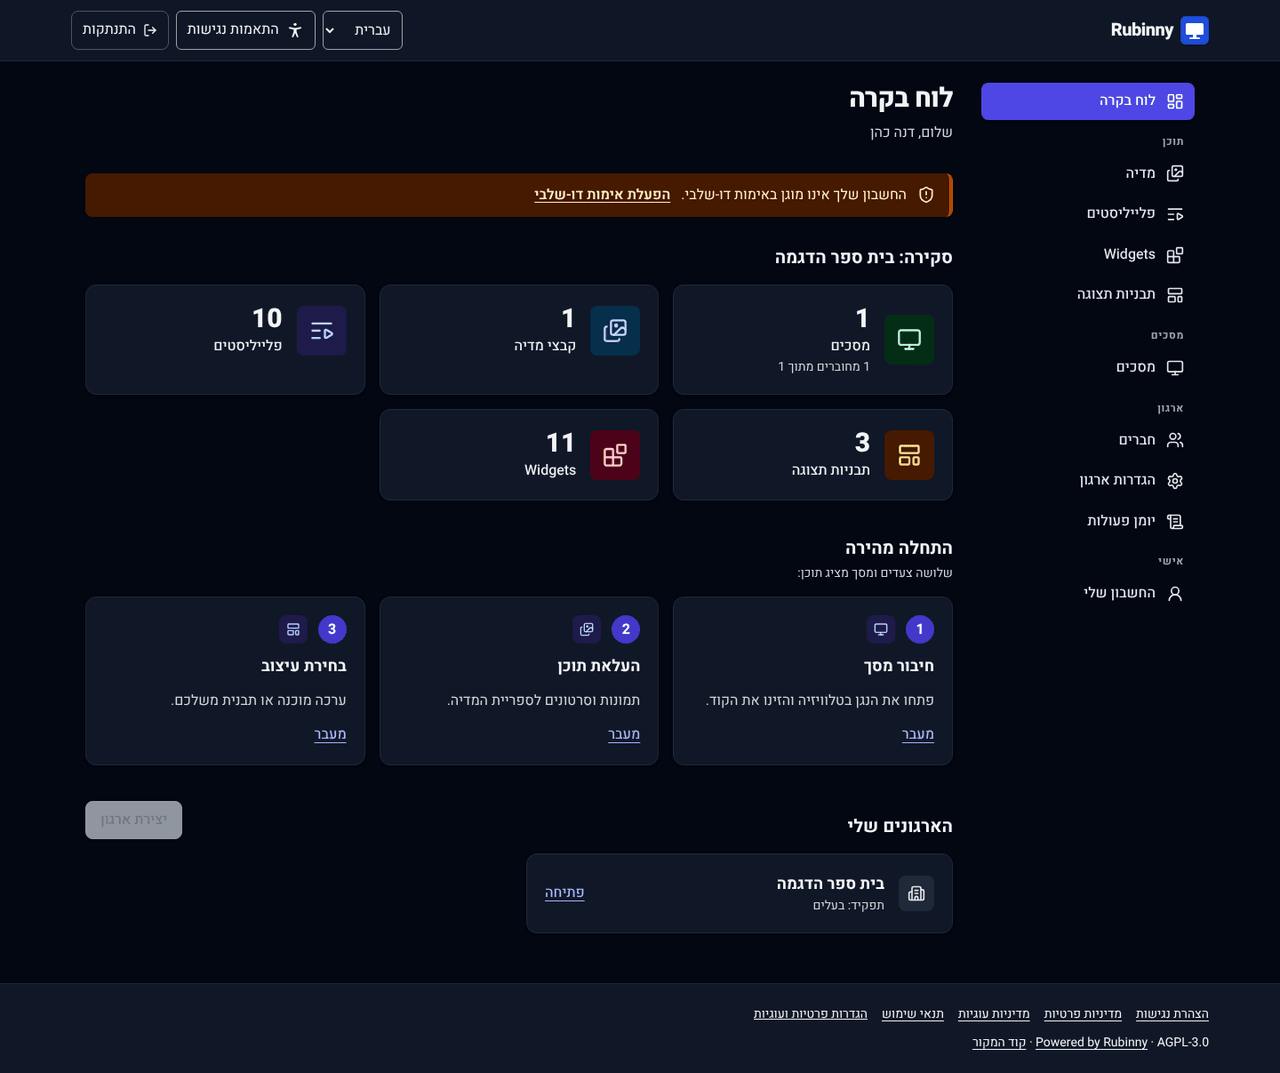
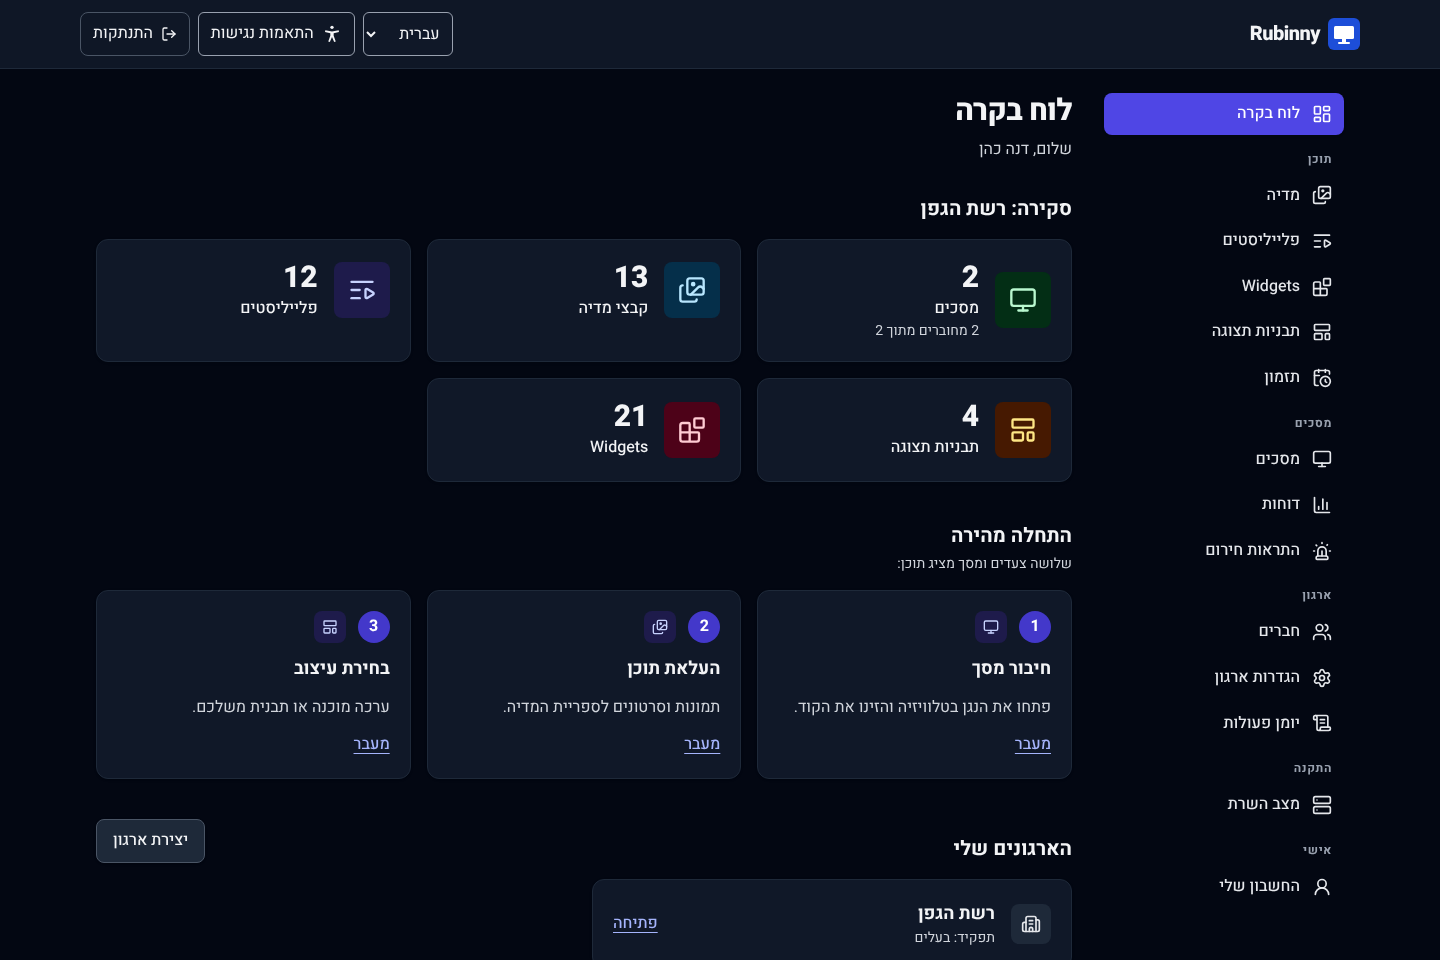
New dashboard pictures, in Hebrew and English, from a demo installation
"pnpm --filter @rubinny/cms screens" (apps/cms/screenshots, its own
Playwright config) sets up a demo organization on an empty stack through
the API: an administrator with two-step verification, four kits
(restaurant, cinema, café, shop), two paired screens playing them for a
while, and a weekly schedule. It then captures the dashboard (light and
dark), kits, widgets, designer, menu editor, screen status, report,
schedule, About page and the mobile menu. SCREENS_LOCALE=he writes
docs/screenshots/cms-<page>.png, SCREENS_LOCALE=en cms-<page>-en.png.

The English README now shows the English pictures, the Hebrew one the
Hebrew pictures, both with the new menu editor, kits and About page.
CONTRIBUTING explains how to take them again.

Claude-Session: https://claude.ai/code/session_018pfScDfFmoUQkABWysE6Dr

diff --git a/apps/cms/screenshots/dashboard.spec.ts b/apps/cms/screenshots/dashboard.spec.ts
@@ -1,0 +1,195 @@
+// Rubinny — free and open-source digital signage. Powered by Rubinny · Open source.
+// Copyright (C) 2026 The Rubinny Authors. Created by Diamond Rubinny.
+// SPDX-License-Identifier: AGPL-3.0-only
+// https://github.com/diamondrubinny/freescreensign · The attribution must be kept (LICENSING.md).
+
+import { expect, test, type APIRequestContext, type Browser, type Page } from '@playwright/test';
+import { totp } from '../e2e/helpers';
+
+/**
+ * Pictures of the dashboard for the READMEs, against a running stack with an EMPTY database
+ * (deploy/e2e-reset.sh): it sets up a demo organization with starter kits, two screens playing
+ * them and a weekly schedule, then captures each page. Hebrew pictures are written as
+ * docs/screenshots/cms-<page>.png, English ones as cms-<page>-en.png.
+ *
+ *   SCREENS_LOCALE=he|en  E2E_SETUP_TOKEN=…  pnpm --filter @rubinny/cms screens
+ */
+const LOCALE = process.env.SCREENS_LOCALE === 'en' ? 'en' : 'he';
+const SETUP_TOKEN = process.env.E2E_SETUP_TOKEN ?? '';
+const OUT = new URL('../../../docs/screenshots/', import.meta.url).pathname;
+const file = (name: string) => `${OUT}cms-${name}${LOCALE === 'en' ? '-en' : ''}.png`;
+
+const DEMO = {
+  he: {
+    name: 'דנה כהן',
+    org: 'רשת הגפן',
+    screens: ['מסעדה — כניסה', 'קולנוע — לובי'],
+    schedule: 'שבוע רגיל',
+    entries: ['בוקר בבית הקפה', 'צהריים וערב במסעדה', 'סוף שבוע בקולנוע'],
+    menu: 'תפריט המסעדה',
+    design: 'מנת היום',
+  },
+  en: {
+    name: 'Dana Cohen',
+    org: 'Vine Group',
+    screens: ['Restaurant — entrance', 'Cinema — lobby'],
+    schedule: 'Regular week',
+    entries: ['Café mornings', 'Restaurant lunch and dinner', 'Cinema weekends'],
+    menu: 'Restaurant menu',
+    design: 'Dish of the day',
+  },
+}[LOCALE];
+const ADMIN = { email: 'dana@example.com', password: 'purple elephants dance at midnight' };
+
+test.describe.configure({ mode: 'serial' });
+test.use({ viewport: { width: 1440, height: 960 }, locale: LOCALE === 'en' ? 'en-US' : 'he-IL' });
+
+let orgId = '';
+const ids: Record<string, string> = {};
+
+async function json<T>(response: Awaited<ReturnType<APIRequestContext['get']>>): Promise<T> {
+  expect(response.ok(), `${response.url()}: ${await response.text()}`).toBe(true);
+  return (await response.json()) as T;
+}
+
+/** The locale before the app loads (the language switcher stores it the same way). */
+async function prepare(page: Page) {
+  await page.addInitScript((locale) => {
+    window.localStorage.setItem('rubinny.locale', locale);
+  }, LOCALE);
+}
+
+/** Pairs a new "screen" (a browser context running the player) and returns its id. */
+async function pairScreen(browser: Browser, page: Page, name: string, layoutId: string) {
+  const device = await browser.newContext({ ignoreHTTPSErrors: true });
+  const player = await device.newPage();
+  await player.goto('/player/');
+  const code = (await player.getByTestId('pairing-code').textContent({ timeout: 20_000 }))?.trim();
+  const created = await json<{ screen: { id: string } }>(
+    await page.request.post(`/api/v1/orgs/${orgId}/screens`, {
+      data: { code, name, layoutId },
+    }),
+  );
+  return created.screen.id;
+}
+
+test('a demo organization, and pictures of its dashboard', async ({ page, browser }) => {
+  test.setTimeout(420_000);
+  expect(SETUP_TOKEN, 'E2E_SETUP_TOKEN must be set').not.toBe('');
+  await prepare(page);
+  await page.goto('/login');
+
+  await json(
+    await page.request.post('/api/v1/setup', {
+      data: {
+        setupToken: SETUP_TOKEN,
+        email: ADMIN.email,
+        password: ADMIN.password,
+        name: DEMO.name,
+        orgName: DEMO.org,
+        locale: LOCALE,
+      },
+    }),
+  );
+  // Two-step verification, which admin pages need.
+  const { secret } = await json<{ secret: string }>(
+    await page.request.post('/api/v1/auth/mfa/totp/setup', {
+      data: { password: ADMIN.password },
+    }),
+  );
+  await json(
+    await page.request.post('/api/v1/auth/mfa/totp/enable', { data: { code: totp(secret) } }),
+  );
+  const session = await json<{ memberships: { orgId: string }[] }>(
+    await page.request.get('/api/v1/auth/session'),
+  );
+  orgId = session.memberships[0]!.orgId;
+
+  for (const kit of ['restaurant', 'cinema', 'cafe', 'retail']) {
+    const { layout } = await json<{ layout: { id: string } }>(
+      await page.request.post(`/api/v1/orgs/${orgId}/starter-kits/${kit}`, {
+        data: { locale: LOCALE },
+      }),
+    );
+    ids[kit] = layout.id;
+  }
+
+  ids.screen = await pairScreen(browser, page, DEMO.screens[0]!, ids.restaurant!);
+  await pairScreen(browser, page, DEMO.screens[1]!, ids.cinema!);
+
+  const { schedule } = await json<{ schedule: { id: string } }>(
+    await page.request.post(`/api/v1/orgs/${orgId}/schedules`, {
+      data: {
+        name: DEMO.schedule,
+        entries: [
+          {
+            name: DEMO.entries[0],
+            layoutId: ids.cafe,
+            daysOfWeek: [0, 1, 2, 3, 4],
+            timeFrom: '07:00',
+            timeTo: '11:00',
+          },
+          {
+            name: DEMO.entries[1],
+            layoutId: ids.restaurant,
+            timeFrom: '11:00',
+            timeTo: '23:00',
+          },
+          { name: DEMO.entries[2], layoutId: ids.cinema, daysOfWeek: [5, 6] },
+        ],
+      },
+    }),
+  );
+  ids.schedule = schedule.id;
+
+  const { widgets } = await json<{ widgets: { id: string; name: string }[] }>(
+    await page.request.get(`/api/v1/orgs/${orgId}/widgets`),
+  );
+  // The restaurant's menu and dish of the day.
+  ids.menu = widgets.find((w) => w.name === DEMO.menu)!.id;
+  ids.design = widgets.find((w) => w.name === DEMO.design)!.id;
+
+  // Let the screens play for a while: uptime, "now playing" and plays for the report.
+  await page.waitForTimeout(80_000);
+  await capture(page);
+});
+
+const PAGES: [name: string, path: () => string][] = [
+  ['dashboard', () => '/'],
+  ['layouts', () => `/orgs/${orgId}/layouts`],
+  ['widgets', () => `/orgs/${orgId}/widgets`],
+  ['designer', () => `/orgs/${orgId}/widgets/${ids.design}`],
+  ['menu-editor', () => `/orgs/${orgId}/widgets/${ids.menu}`],
+  ['screen-status', () => `/orgs/${orgId}/screens/${ids.screen}`],
+  ['reports', () => `/orgs/${orgId}/reports`],
+  ['schedule', () => `/orgs/${orgId}/schedules/${ids.schedule}`],
+  ['about', () => '/about'],
+];
+
+/** Opens a page and waits until it has settled (data loaded, images decoded, fonts ready). */
+async function open(page: Page, path: string) {
+  await page.goto(path);
+  await expect(page.getByRole('heading', { level: 1 })).toBeVisible({ timeout: 20_000 });
+  await page.waitForLoadState('networkidle');
+  await page.evaluate(() => document.fonts.ready);
+  // Progress bars, skeletons and transitions.
+  await page.waitForTimeout(800);
+}
+
+async function capture(page: Page) {
+  for (const [name, path] of PAGES) {
+    await open(page, path());
+    await page.screenshot({ path: file(name) });
+  }
+
+  await page.emulateMedia({ colorScheme: 'dark' });
+  await open(page, '/');
+  await page.screenshot({ path: file('dashboard-dark') });
+  await page.emulateMedia({ colorScheme: 'light' });
+
+  await page.setViewportSize({ width: 390, height: 844 });
+  await open(page, '/');
+  await page.getByRole('button', { name: LOCALE === 'en' ? 'Menu' : 'תפריט', exact: true }).click();
+  await page.waitForTimeout(500);
+  await page.screenshot({ path: file('mobile') });
+}

diff --git a/apps/cms/playwright.screens.config.ts b/apps/cms/playwright.screens.config.ts
@@ -1,0 +1,35 @@
+// Rubinny — free and open-source digital signage. Powered by Rubinny · Open source.
+// Copyright (C) 2026 The Rubinny Authors. Created by Diamond Rubinny.
+// SPDX-License-Identifier: AGPL-3.0-only
+// https://github.com/diamondrubinny/freescreensign · The attribution must be kept (LICENSING.md).
+
+import { defineConfig, devices } from '@playwright/test';
+
+/**
+ * Pictures of the dashboard for the READMEs (screenshots/dashboard.spec.ts), against a running
+ * stack with an empty database. Same environment as the end-to-end tests (playwright.config.ts).
+ */
+const executablePath = process.env.PLAYWRIGHT_CHROMIUM_PATH;
+
+export default defineConfig({
+  testDir: 'screenshots',
+  workers: 1,
+  retries: 0,
+  reporter: [['list']],
+  use: {
+    baseURL: process.env.E2E_BASE_URL ?? 'https://localhost',
+    ignoreHTTPSErrors: true,
+  },
+  projects: [
+    {
+      name: 'chromium',
+      use: {
+        ...devices['Desktop Chrome'],
+        launchOptions: {
+          ...(executablePath ? { executablePath } : {}),
+          args: ['--ignore-certificate-errors'],
+        },
+      },
+    },
+  ],
+});

diff --git a/eslint.config.js b/eslint.config.js
@@ -56,7 +56,7 @@ export default tseslint.config(
     },
   },
   {
-    files: ['**/test/**/*.{ts,tsx}', '**/e2e/**/*.ts'],
+    files: ['**/test/**/*.{ts,tsx}', '**/e2e/**/*.ts', 'apps/cms/screenshots/**/*.ts'],
     rules: { '@typescript-eslint/no-non-null-assertion': 'off' },
   },
   {

diff --git a/README.md b/README.md
@@ -96,28 +96,33 @@ English, and every picture in it is original art drawn for the project
 - **Hebrew-first and accessible**: RTL, dark mode, keyboard navigation, accessibility menu;
   every page is tested with axe-core (WCAG 2.1 AA target).
 
-![The designer: canvas with selection handles, toolbar, properties and layers](docs/screenshots/cms-designer.png)
+![The designer: a design with an illustration on its canvas, the toolbar, and the properties of the canvas and its layers](docs/screenshots/cms-designer-en.png)
 
 <details>
 <summary>More screenshots</summary>
 
-| Screen status: now playing, uptime, clock                                                             | Proof-of-play report with CSV export                                             |
-| ----------------------------------------------------------------------------------------------------- | -------------------------------------------------------------------------------- |
-| ![A screen page with status, uptime and what each zone shows](docs/screenshots/cms-screen-status.png) | ![The play report: plays and time per content](docs/screenshots/cms-reports.png) |
+| The menu / price list editor                                                                  | Ready-made kits by trade                                                                           |
+| --------------------------------------------------------------------------------------------- | -------------------------------------------------------------------------------------------------- |
+| ![The menu editor: sections, items, prices and tags](docs/screenshots/cms-menu-editor-en.png) | ![The layouts page with the kits by trade and their pictures](docs/screenshots/cms-layouts-en.png) |
 
-| Scheduling with the weekly timeline                                                            |
-| ---------------------------------------------------------------------------------------------- |
-| ![The schedule editor with entries and the weekly timeline](docs/screenshots/cms-schedule.png) |
+| Screen status: now playing, uptime, clock                                                                | Proof-of-play report with CSV export                                                |
+| -------------------------------------------------------------------------------------------------------- | ----------------------------------------------------------------------------------- |
+| ![A screen page with status, uptime and what each zone shows](docs/screenshots/cms-screen-status-en.png) | ![The play report: plays and time per content](docs/screenshots/cms-reports-en.png) |
 
-| Dashboard                                        | Dark mode                                                          |
-| ------------------------------------------------ | ------------------------------------------------------------------ |
-| ![Dashboard](docs/screenshots/cms-dashboard.png) | ![Dashboard in dark mode](docs/screenshots/cms-dashboard-dark.png) |
+| Scheduling with the weekly timeline                                                               | Widgets                                              |
+| ------------------------------------------------------------------------------------------------- | ---------------------------------------------------- |
+| ![The schedule editor with entries and the weekly timeline](docs/screenshots/cms-schedule-en.png) | ![Widgets page](docs/screenshots/cms-widgets-en.png) |
 
-| Layouts and ready-made kits                       | Widgets                                           |
-| ------------------------------------------------- | ------------------------------------------------- |
-| ![Layouts page](docs/screenshots/cms-layouts.png) | ![Widgets page](docs/screenshots/cms-widgets.png) |
+| Dashboard                                           | Dark mode                                                             |
+| --------------------------------------------------- | --------------------------------------------------------------------- |
+| ![Dashboard](docs/screenshots/cms-dashboard-en.png) | ![Dashboard in dark mode](docs/screenshots/cms-dashboard-dark-en.png) |
 
-Mobile: <br>![The dashboard on a phone with the menu open](docs/screenshots/cms-mobile.png)
+| About: credit, license and source code               | Mobile                                                                             |
+| ---------------------------------------------------- | ---------------------------------------------------------------------------------- |
+| ![The About page](docs/screenshots/cms-about-en.png) | ![The dashboard on a phone with the menu open](docs/screenshots/cms-mobile-en.png) |
+
+The pictures are taken by `pnpm --filter @rubinny/cms screens` on a demo installation (see
+[CONTRIBUTING.md](CONTRIBUTING.md)).
 
 </details>
 

diff --git a/README.he.md b/README.he.md
@@ -105,28 +105,32 @@
 
 </div>
 
-![עורך העיצוב: קנבס עם ידיות בחירה, סרגל כלים, מאפיינים ושכבות](docs/screenshots/cms-designer.png)
+![עורך העיצוב: עיצוב עם איור על הקנבס, סרגל הכלים, ומאפייני הקנבס והשכבות](docs/screenshots/cms-designer.png)
 
-<details>
-<summary>צילומי מסך נוספים</summary>
+<details dir="rtl">
+<summary>עוד צילומי מסך</summary>
 
-| מצב מסך: מוצג עכשיו, זמינות ושעון                                                    | דוח הצגות עם ייצוא ל-CSV                                                  |
+| עורך התפריט והמחירון                                                                | ערכות מוכנות לפי תחום                                                              |
+| ----------------------------------------------------------------------------------- | ---------------------------------------------------------------------------------- |
+| ![עורך התפריט: מדורים, פריטים, מחירים ותגיות](docs/screenshots/cms-menu-editor.png) | ![עמוד התבניות עם הערכות לפי תחום והתמונות שלהן](docs/screenshots/cms-layouts.png) |
+
+| מצב מסך: מה מוצג עכשיו, זמינות ושעון                                                 | דוח הצגות עם ייצוא ל-CSV                                                  |
 | ------------------------------------------------------------------------------------ | ------------------------------------------------------------------------- |
 | ![עמוד מסך עם מצב, זמינות ומה מוצג בכל אזור](docs/screenshots/cms-screen-status.png) | ![דוח ההצגות: מספר הצגות וזמן לכל תוכן](docs/screenshots/cms-reports.png) |
 
-| תזמון עם ציר זמן שבועי                                                           |
-| -------------------------------------------------------------------------------- |
-| ![עורך לוח הזמנים עם השורות וציר הזמן השבועי](docs/screenshots/cms-schedule.png) |
+| תזמון עם ציר זמן שבועי                                                           | Widgets                                             |
+| -------------------------------------------------------------------------------- | --------------------------------------------------- |
+| ![עורך לוח הזמנים עם השורות וציר הזמן השבועי](docs/screenshots/cms-schedule.png) | ![עמוד ה-Widgets](docs/screenshots/cms-widgets.png) |
 
 | לוח בקרה                                        | מצב כהה                                                       |
 | ----------------------------------------------- | ------------------------------------------------------------- |
 | ![לוח בקרה](docs/screenshots/cms-dashboard.png) | ![לוח בקרה במצב כהה](docs/screenshots/cms-dashboard-dark.png) |
 
-| תבניות וערכות מוכנות                                    | Widgets                                             |
-| ------------------------------------------------------- | --------------------------------------------------- |
-| ![עמוד תבניות התצוגה](docs/screenshots/cms-layouts.png) | ![עמוד ה-Widgets](docs/screenshots/cms-widgets.png) |
+| אודות: קרדיט, רישיון וקוד המקור                | נייד                                                                |
+| ---------------------------------------------- | ------------------------------------------------------------------- |
+| ![עמוד האודות](docs/screenshots/cms-about.png) | ![לוח הבקרה בטלפון עם התפריט פתוח](docs/screenshots/cms-mobile.png) |
 
-נייד: <br>![לוח הבקרה בטלפון עם התפריט פתוח](docs/screenshots/cms-mobile.png)
+הצילומים מופקים בפקודה `pnpm --filter @rubinny/cms screens` על התקנת הדגמה (ראו [CONTRIBUTING.md](CONTRIBUTING.md)).
 
 </details>
 

diff --git a/CONTRIBUTING.md b/CONTRIBUTING.md
@@ -85,6 +85,14 @@ pnpm --filter @rubinny/showcase screens   # PLAYWRIGHT_CHROMIUM_PATH=... for a c
 
 Look at the pictures before committing them: they are what people see first.
 
+The dashboard pictures (`docs/screenshots/cms-*.png`) come from a demo installation: on a
+stack with an empty database (`deploy/e2e-reset.sh`), run once per language:
+
+```bash
+SCREENS_LOCALE=he E2E_SETUP_TOKEN=… pnpm --filter @rubinny/cms screens   # cms-<page>.png
+SCREENS_LOCALE=en E2E_SETUP_TOKEN=… pnpm --filter @rubinny/cms screens   # cms-<page>-en.png
+```
+
 ## Code standards
 
 - TypeScript strict mode; no `any` without a comment explaining why.
